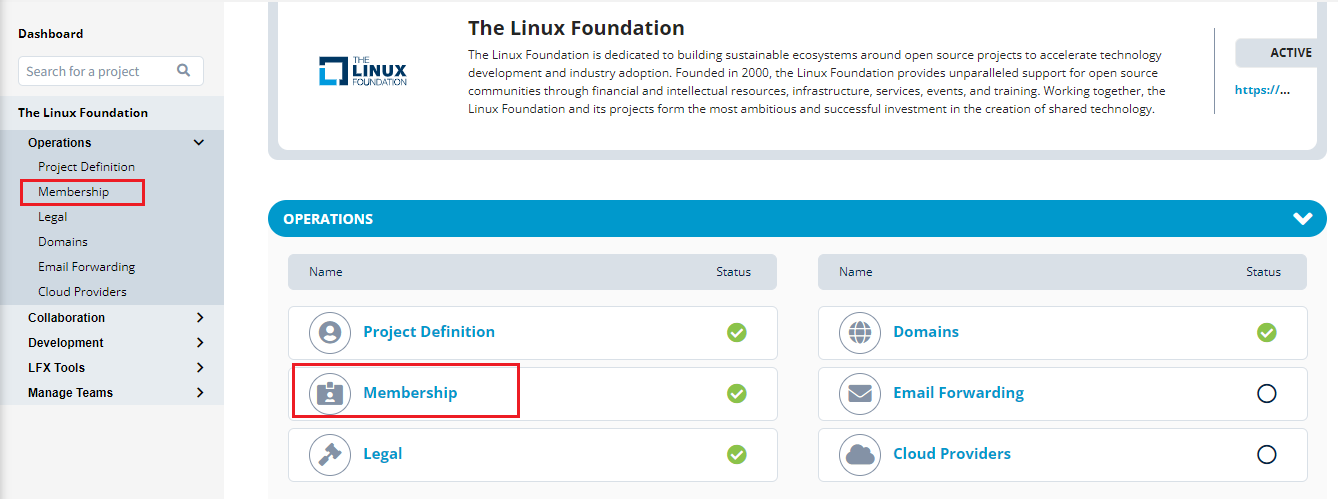
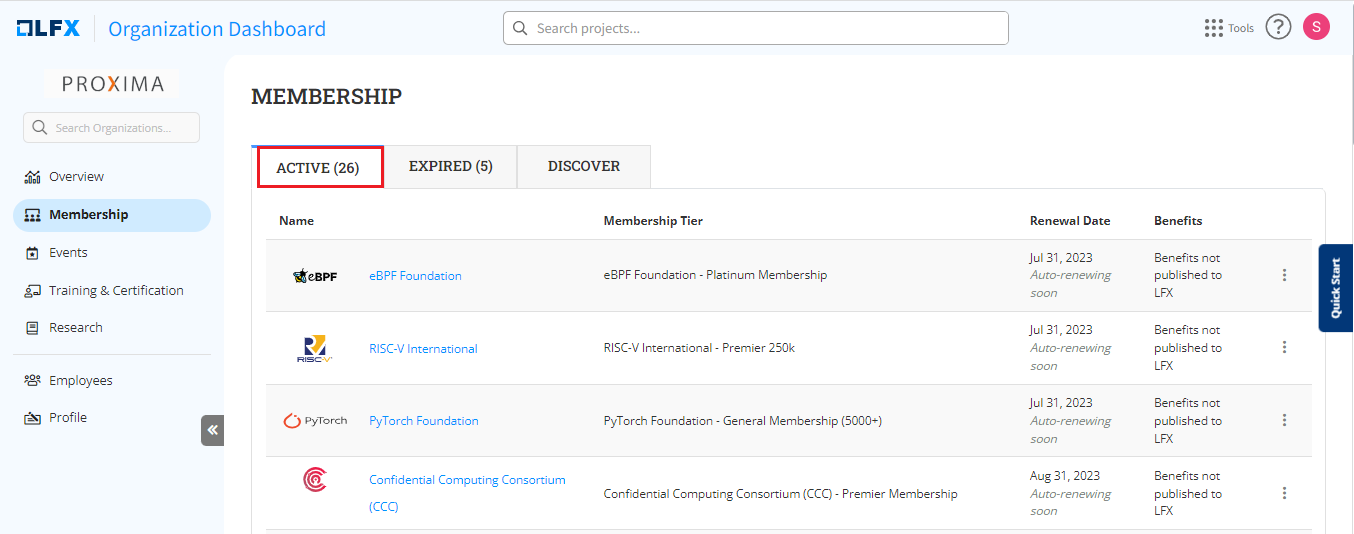
GITBOOK-2798: change request with no subject merged in GitBook

diff --git a/organization-dashboard/membership/active-memberships-in-your-organization.md b/organization-dashboard/membership/active-memberships-in-your-organization.md
@@ -5,11 +5,9 @@ Active Membership tab under Membership provides you an overview on the active me
 * Open source project name for which your organization has availed the membership.
 * Type of membership that your organization has purchased.
 * Renewal date of the membership.
-* A progressive graph that provides you the percentage of benefits that are available for your membership.
-* Number of contributors for the open source project from your organization.
-* Number of contributions for the open source project provided from your organization.
+* Benefits claimed from the membership.
 
-<figure><img src="../../.gitbook/assets/Member1.png" alt=""><figcaption><p>Active Membership</p></figcaption></figure>
+<figure><img src="../../.gitbook/assets/Mem.png" alt=""><figcaption><p>Active Membership</p></figcaption></figure>
 
 ### Managing your Team
 

diff --git a/organization-dashboard/membership/README.md b/organization-dashboard/membership/README.md
@@ -29,4 +29,4 @@ To access your Membership, perform the following steps:
 
 2.On the vertical sidebar navigation menu, in the **Search** box enter your company or organization name. By default, the dashboard page appears. Click the **Membership** menu available on the Vertical Sidebar navigation menu.
 
-<figure><img src="../../.gitbook/assets/Membership (1).png" alt=""><figcaption><p>Membership</p></figcaption></figure>
+<figure><img src="../../.gitbook/assets/MemOV.png" alt=""><figcaption><p>Membership</p></figcaption></figure>
